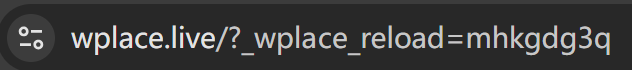
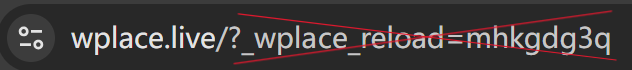
README.md(en)

Changed region(s): [[0.3608, 0.1429, 0.9921, 0.9429]]

diff --git a/README.md b/README.md
@@ -14,14 +14,13 @@
 ### 目录（点击跳转）
 - [概览](#概览)
 - [适合谁用](#适合谁用)
-- [主要功能](#主要功能)
 - [快速开始](#快速开始)
-  - [安装（开发 / 调试）](#安装开发--调试)
+  - [安装](#安装)
   - [快速使用步骤](#快速使用步骤)
 - [常见问题（FAQ）](#常见问题faq)
 - [隐私与安全](#隐私与安全)
 - [反馈与支持](#反馈与支持)
-- [附录：小提示](#附录小提示)
+- [常见问题](#常见问题)
 
 ---
 
@@ -31,13 +30,15 @@ Wplace多功能工具 是一个轻量的悬浮式扩展。它可以：
 - 跳转：粘贴别人分享的坐标，立刻跳转到对应位置并自动向绘画插件填入基准坐标
 - 收藏历史坐标
 - 标尺：测量一幅画的总像素量或是长宽，不用再人工估计
+- 快照：可以拍下任意选区的当前状态，并把它作为之后维护时的模板
+- 修复了blue marble无法记住上次选择颜色的bug
 - 地图样式：可以关闭地名和道路显示，使地图更清爽
 - 快捷键：用键盘就可以放缩地图大小；新增可以显示/隐藏绘图插件的快捷键，绘图时更专心
 - 自动检查更新功能
 ---
 
 ### 适合谁用
-- 想快速在 wplace.live 或类似地图上定位某个瓦片的用户；  
+- 想快速在 wplace.live 上定位某个地方的用户；  
 - 与朋友协作共享地图视角时需要精确坐标的场景；  
 - 不想手动寻找并输入基准坐标的用户；
 - 想提高绘画生产力的用户。
@@ -87,76 +88,78 @@ Wplace多功能工具 是一个轻量的悬浮式扩展。它可以：
 
 ---
 
-## B. English section
+## A. English section
 
 ### Contents (click to jump)
 - [Overview](#overview)
 - [Who it's for](#who-its-for)
-- [Features](#features)
-- [Quick Start](#quick-start)
-  - [Installation (Dev / Debug)](#installation-dev--debug)
-  - [Quick usage steps](#quick-usage-steps-1)
+- [Quick start](#quick-start)
+  - [Installation](#installation)
+  - [Quick usage steps](#quick-usage-steps)
+- [Privacy & security](#privacy--security)
+- [Feedback & support](#feedback--support)
 - [FAQ](#faq)
-- [Privacy & Security](#privacy--security)
-- [Feedback & Support](#feedback--support)
-- [Appendix: tips](#appendix-tips)
 
 ---
 
 ### Overview
-Wplace_Versatile_Tool is a light floating browser extension that helps you:
-- Copy and share pixel coordinates (four-values: TlX, TlY, PxX, PxY);  
-- Convert those four-values into latitude/longitude and open the location on wplace.live;  
-- Auto-fill coordinate inputs on supported pages to save manual work.
+Wplace Versatile Tool is a lightweight floating extension. It can:
+- Share coordinates: one-click share of base coordinates and location info  
+- Jump: paste coordinates someone shared to immediately jump to that position and automatically fill the base coordinates into the drawing plugin  
+- Save history of coordinates  
+- Ruler: measure total pixels or width/height of an artwork so you no longer need to estimate manually
+- Snapshot: take a snapshot of the selected area, then you can use the snapshot as a template.
+- fix the bug that "blue marble" can not remember the colors you selected last time.
+- Map styles: hide place names and roads to make the map cleaner  
+- Hotkeys: zoom the map with the keyboard; new shortcut to show/hide the drawing plugin so you can focus while drawing  
+- Automatic update checks
 
 ---
 
 ### Who it's for
-- Users who want to quickly locate tiles on wplace.live or similar map sites;  
-- People who share map views with friends and need exact coordinates;  
-- Anyone who wants to avoid manually finding and typing base coordinates.
+- Users who want to improve Wplace drawing productivity.
 
 ---
 
-### Features
-- Floating panel: draggable, minimizable, remembers position.  
-- Share & copy: one-click copy of latest four-coordinates (with fallback).  
-- Jump: converts four-coordinates to precise lat/lng and opens wplace.live.  
-- Auto-fill: detects and fills TlX/TlY/PxX/PxY inputs on compatible pages.  
-- Theme switch: safely apply page theme where supported.
+### Quick start
 
----
-
-### Quick Start
-
-#### Installation (Dev / Debug)
-1. Open chrome://extensions/ or edge://extensions/ and enable Developer mode.  
-2. Click "Load unpacked" and select the project src (or extension root).  
-3. Open https://wplace.live/ to test the panel actions.
+#### Installation
+1. Download the latest release and unzip it (v2.3 used here as an example).  
+![alt text](./images/image-6.png)  
+![alt text](./images/image-7.png)  
+2. Open the Chrome or Edge extensions page (chrome://extensions/ or edge://extensions/) and enable "Developer mode".  
+- Chrome:  
+![alt text](./images/image-1.png)  
+- Edge:  
+![alt text](./images/image-8.png)  
+3. Click "Load unpacked" and select this project's src folder.  
+![alt text](./images/image.png)  
+4. Open or refresh the Wplace website.
 
 #### Quick usage steps
-1. Click the floating icon to open the panel.  
-2. Click "Share" to copy the latest four-coordinates.  
-3. Paste a four-coordinate string (e.g. `180,137,42,699`) into the input and click "Jump" — the extension will open the map and jump to the point.
-4. On the target page the extension will try to auto-fill pending coords into the painting plugin.  
-5. Minimize to icon and click again to restore.
+1. A floating icon will appear at the bottom-right corner of the page; click it to open the panel.  
+![alt text](./images/image-2.png)  
+2. Hover over the buttons in the panel to see their functions.  
+![alt text](./images/image-3.png)  
+3. Press W to hide the drawing plugin (blue marble or skirk marble), S to hide this extension panel, A and D to zoom in and out. Long press the right mouse button to zoom out.  
+When the map view is too wide, click on the area you want to zoom in on and you won't see the annoying "please zoom in to select pixels" prompt.  
+![alt text](./images/image-10.png) 
 
 ---
 
-### Privacy & Security
-- The extension reads/writes only required coordinates and theme locally. It does not upload any information.  
-- Review the source or uninstall if you have concerns.
+### Privacy & security
+- The extension only reads/writes the required coordinates and theme settings locally and does not upload coordinates to external servers.  
+- If you care about privacy or want to inspect the implementation, please review the extension source.
 
 ---
 
-### Feedback & Support
-Open an Issue or PR with page details and console logs to help reproduction and fixes.
+### Feedback & support
+Open an Issue or PR in the repository, describe the problem and include console logs if possible. Page adaptation issues usually require a brief description or screenshot of the target page to help diagnose.
 
 ---
 
-### Appendix: tips
-- If theme changes do not persist, check DevTools to confirm the injector script loaded early.  
-- If auto-fill fails, refresh the target page or wait for it to finish loading before retrying.  
-- For debugging, use the browser console to inspect extension logs.
-
+### FAQ
+- If theme or map style changes do not take effect, remove trailing parameters like `?_wplace_reload=...` from the URL in the address bar and re-enter the site.  
+![alt text](./images/image-11.png)  
+We recommend hiding roads; place names are optional based on your preference. Once you settle on a map style and theme, avoid switching frequently to reduce the chance of failures.
 ---
